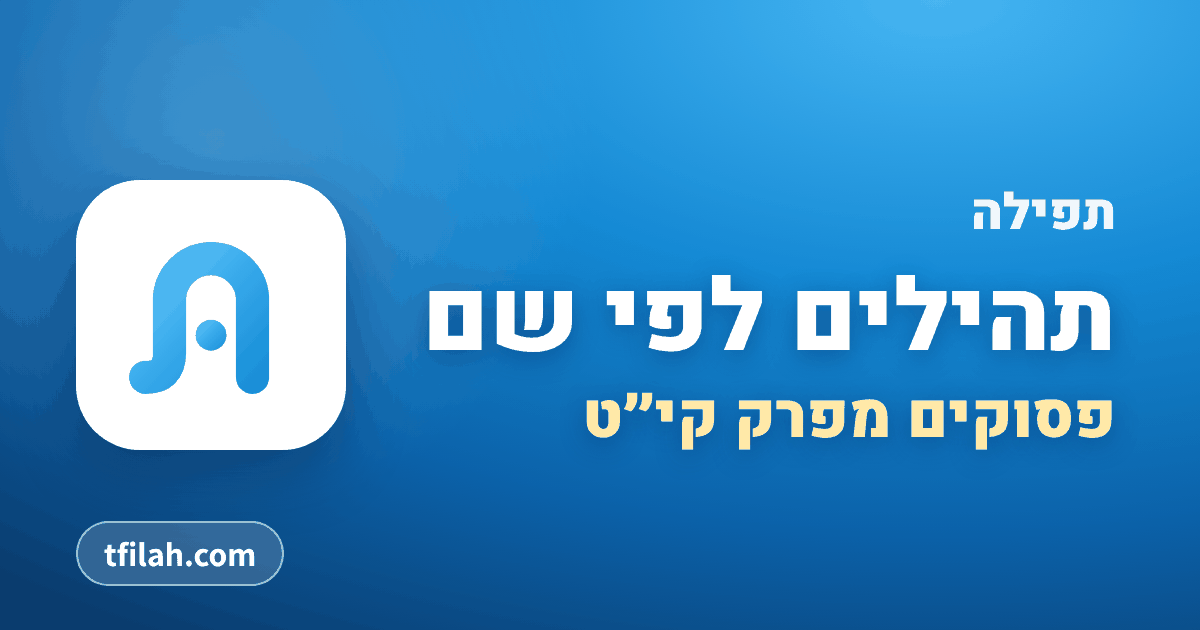
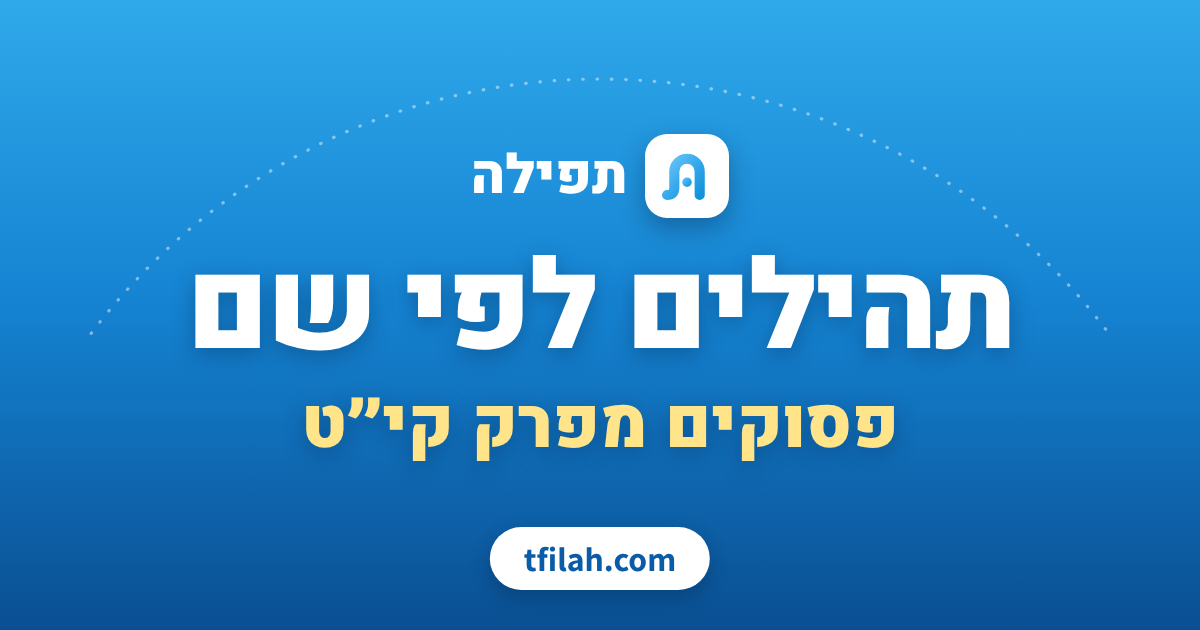
Share images redrawn: a smooth straight gradient, centred layout, full colour
The reduced-colour pictures showed bands in the blue. The background is now a
straight top-to-bottom gradient that stays light in full colour, the layout is
centred, and the web address sits on a white pill. All 21 pictures redrawn.

Claude-Session: https://claude.ai/code/session_01NfDHo66YfWZcsuujMUNYLr

diff --git a/tools/build-og.js b/tools/build-og.js
@@ -33,24 +33,26 @@ const CARDS = {
   const hf = fs.readdirSync(path.join(root, 'fonts'));
   const pick = (fam, sub, w) => hf.find(f => f.startsWith(fam) && f.includes(sub) && f.includes(String(w)));
   for (const [name, [a, c]] of Object.entries(CARDS)) {
-    const big = a.length > 14 ? 104 : a.length > 11 ? 124 : 150;
+    const big = name === 'og' ? 116 : a.length > 14 ? 104 : a.length > 11 ? 124 : 150;
     await p.setContent(`<!doctype html><html lang="he" dir="rtl"><style>
 @font-face{font-family:H;font-weight:900;src:url(${font(pick('heebo', 'hebrew', 900))})}
 @font-face{font-family:A;font-weight:700;src:url(${font(pick('assistant', 'latin', 700))})}
-*{margin:0;box-sizing:border-box}body{width:1200px;height:630px;font-family:H;color:#fff;overflow:hidden;
-  background:radial-gradient(380px 380px at 18% 22%,rgba(255,255,255,.2),rgba(255,255,255,0)),radial-gradient(120% 120% at 78% 0%,#46B6F3 0%,#1489D4 38%,#0B62AA 70%,#0A3C6E 100%)}
-.f{height:100%;display:flex;align-items:center;justify-content:space-between;padding:0 84px 0 76px;position:relative}
-.t{max-width:800px}.b{font-size:50px;font-weight:900;margin-bottom:14px;opacity:.95}
-h1{display:inline-block;font-size:${big}px;line-height:1.1;font-weight:900;white-space:nowrap;text-shadow:0 6px 26px rgba(4,36,74,.38)}
-h1 span{display:block;color:#FFE9A8;font-size:.62em;margin-top:.16em}
-.u{position:absolute;left:76px;bottom:44px;font:700 34px A;direction:ltr;background:rgba(255,255,255,.16);border:2px solid rgba(255,255,255,.6);border-radius:99px;padding:8px 26px}
-.m{flex:none;width:270px;height:270px;border-radius:64px;background:#fff;display:grid;place-items:center;box-shadow:0 22px 60px rgba(4,30,60,.4)}
-.m svg{width:190px;height:190px}
-</style><div class="f"><div class="t"><p class="b">תפילה</p><h1>${a}<span>${c}</span></h1></div><div class="m">${mark}</div><p class="u">tfilah.com</p></div></html>`);
+*{margin:0;box-sizing:border-box}
+/* a straight top-to-bottom gradient: every row is one colour, so the picture stays smooth and light without reducing its colours */
+body{width:1200px;height:630px;font-family:H;color:#fff;overflow:hidden;background:linear-gradient(180deg,#2FA9EA 0%,#1583D2 48%,#0A4F92 100%)}
+.f{height:100%;display:flex;flex-direction:column;align-items:center;justify-content:center;text-align:center;position:relative;padding-bottom:34px}
+.arc{position:absolute;left:50%;top:26px;width:1060px;transform:translateX(-50%)}
+.b{display:flex;align-items:center;gap:18px;font-size:54px;font-weight:900;line-height:1;margin-bottom:26px}
+.m{flex:none;width:84px;height:84px;border-radius:22px;background:#fff;display:grid;place-items:center;box-shadow:0 10px 26px rgba(4,30,60,.35)}.m svg{width:58px;height:58px}
+h1{font-size:${big}px;line-height:1.06;font-weight:900;white-space:nowrap;letter-spacing:-.02em;text-shadow:0 6px 22px rgba(4,36,74,.35)}
+h1 span{display:block;color:#FFE48A;font-size:${name === 'og' ? '1em' : '.56em'};margin-top:${name === 'og' ? '.02em' : '.2em'};letter-spacing:0}
+.u{position:absolute;left:50%;bottom:40px;transform:translateX(-50%);font:700 34px A;direction:ltr;color:#0A5CA8;background:#fff;border-radius:99px;padding:9px 34px;box-shadow:0 8px 20px rgba(4,30,60,.3)}
+</style><div class="f"><svg class="arc" viewBox="0 0 200 60"><path d="M4 58A120 120 0 0 1 196 58" fill="none" stroke="rgba(255,255,255,.45)" stroke-width=".6" stroke-dasharray=".1 2.6" stroke-linecap="round"/></svg>
+<p class="b"><span class="m">${mark}</span>תפילה</p><h1>${a}<span>${c}</span></h1><p class="u">tfilah.com</p></div></html>`);
     await p.evaluate(() => document.fonts.ready);
-    await p.evaluate(() => { const h = document.querySelector('h1'); let s = parseFloat(getComputedStyle(h).fontSize); while (h.getBoundingClientRect().width > 700 && s > 60) h.style.fontSize = (s -= 2) + 'px'; });
+    await p.evaluate(() => { const h = document.querySelector('h1'); let s = parseFloat(getComputedStyle(h).fontSize); while (h.getBoundingClientRect().width > 1040 && s > 60) h.style.fontSize = (s -= 2) + 'px'; });
     await p.screenshot({path: path.join(root, 'icons', name + '.png')});
-    const ov = await p.evaluate(() => { const h = document.querySelector('h1').getBoundingClientRect(), s = document.querySelector('.m').getBoundingClientRect(); return h.left < s.right + 20; });
+    const ov = await p.evaluate(() => { const h = document.querySelector('h1').getBoundingClientRect(), u = document.querySelector('.u').getBoundingClientRect(); return h.bottom > u.top - 14 || h.left < 40 || h.right > 1160; });
     console.log(name, big, ov ? 'OVERLAP' : 'ok');
   }
   await b.close();

diff --git a/functions/y/[id].js b/functions/y/[id].js
@@ -20,7 +20,7 @@ export async function onRequest({ params, env, request }) {
 <title>${esc(title)} | תפילה</title><meta name="description" content="${esc(desc)}"><meta name="robots" content="noindex">
 <meta property="og:type" content="website"><meta property="og:site_name" content="תפילה"><meta property="og:locale" content="he_IL">
 <meta property="og:title" content="${esc(title)}"><meta property="og:description" content="${esc(desc)}"><meta property="og:url" content="${self}">
-<meta property="og:image" content="https://tfilah.com/icons/og-yachad.png?v=4"><meta property="og:image:width" content="1200"><meta property="og:image:height" content="630"><meta name="twitter:card" content="summary_large_image">
+<meta property="og:image" content="https://tfilah.com/icons/og-yachad.png?v=5"><meta property="og:image:width" content="1200"><meta property="og:image:height" content="630"><meta name="twitter:card" content="summary_large_image">
 <link rel="icon" href="/brand/favicon.svg" type="image/svg+xml">
 <style>body{margin:0;font-family:Arial,sans-serif;background:#fff;color:#0B2E4F;display:grid;place-items:center;min-height:100vh;text-align:center;padding:24px}a{display:inline-block;margin-top:16px;background:#0B79C0;color:#fff;text-decoration:none;font-weight:bold;padding:14px 28px;border-radius:999px}h1{font-size:1.5rem;margin:0 0 8px}p{margin:0;line-height:1.6}</style>
 <script>location.replace(${JSON.stringify(app)})</script></head>

diff --git a/tools/shrink-og.py b/tools/shrink-og.py
@@ -14,7 +14,9 @@ ROOT = os.path.dirname(os.path.dirname(os.path.abspath(__file__)))
 for f in sorted(glob.glob(os.path.join(ROOT, "icons", "og*.png"))):
     im = Image.open(f)
     if im.mode != "P":
-        im.convert("RGB").quantize(colors=160, method=Image.Quantize.MEDIANCUT, dither=Image.Dither.FLOYDSTEINBERG).save(f, optimize=True)
+        im.convert("RGB").save(f, optimize=True)          # full colour first: the straight gradient compresses well as it is
+        if os.path.getsize(f) / 1024 >= 280:              # only a picture that is still heavy has its colours reduced
+            im.convert("RGB").quantize(colors=256, method=Image.Quantize.MEDIANCUT, dither=Image.Dither.FLOYDSTEINBERG).save(f, optimize=True)
     kb = os.path.getsize(f) / 1024
     assert kb < 300, f"{f}: {kb:.0f} KB is too heavy for a link preview"
     print(f"{os.path.basename(f)} {kb:.0f} KB")
